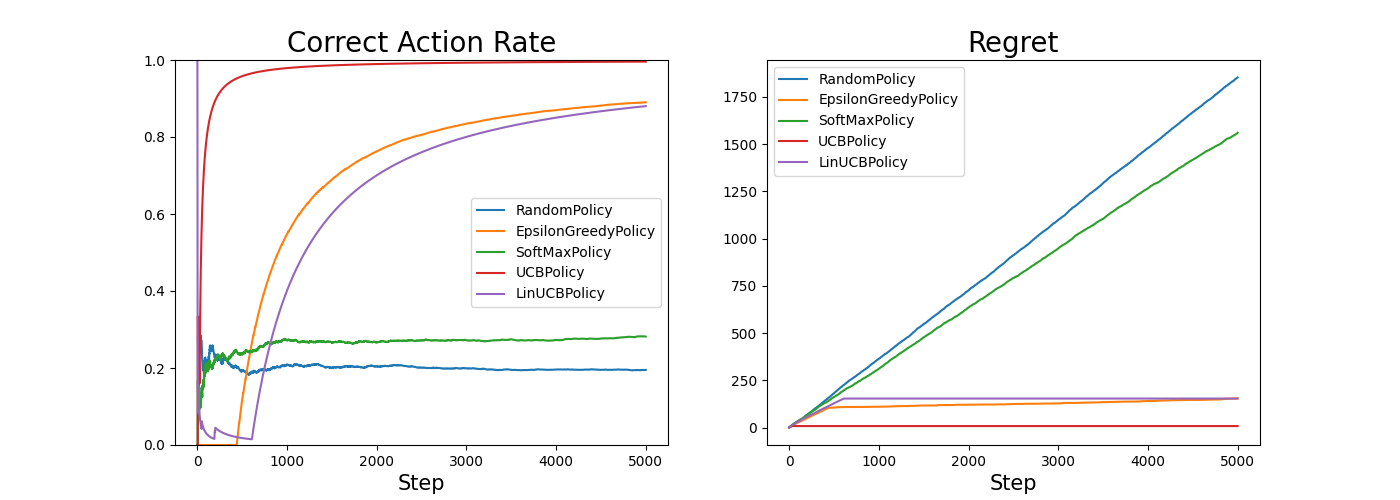
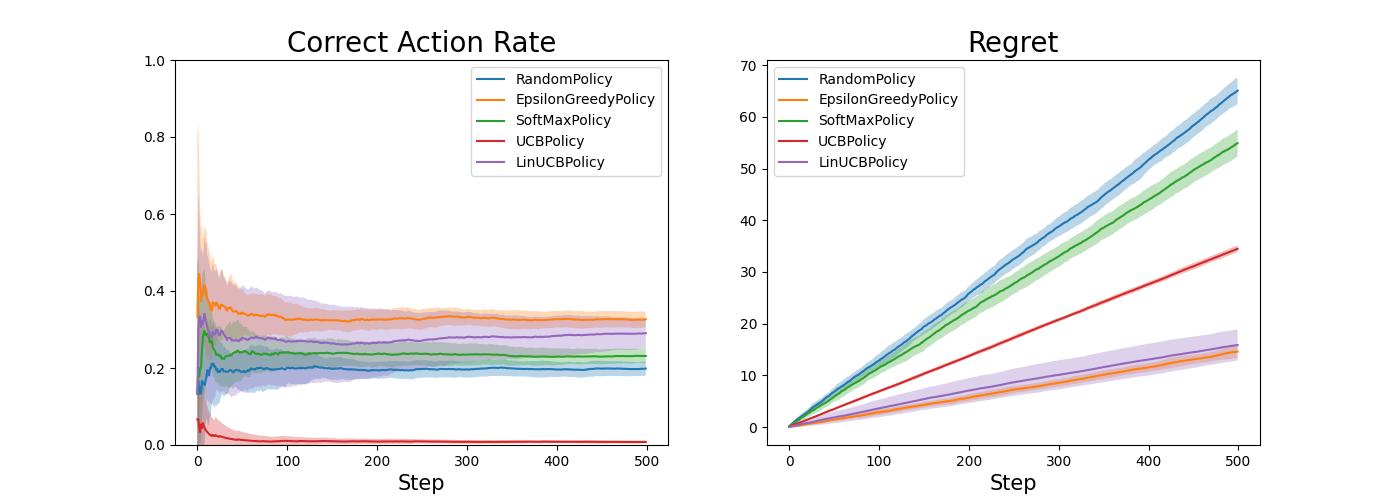
再実験

diff --git a/README.md b/README.md
@@ -8,6 +8,7 @@ banditを色々実装してみる
 ```yaml
 # yaml/sample.yaml
 seed: 3090
+n_trials: 15
 bs: 1 # batch size
 step: 5000
 n_actions: 100
